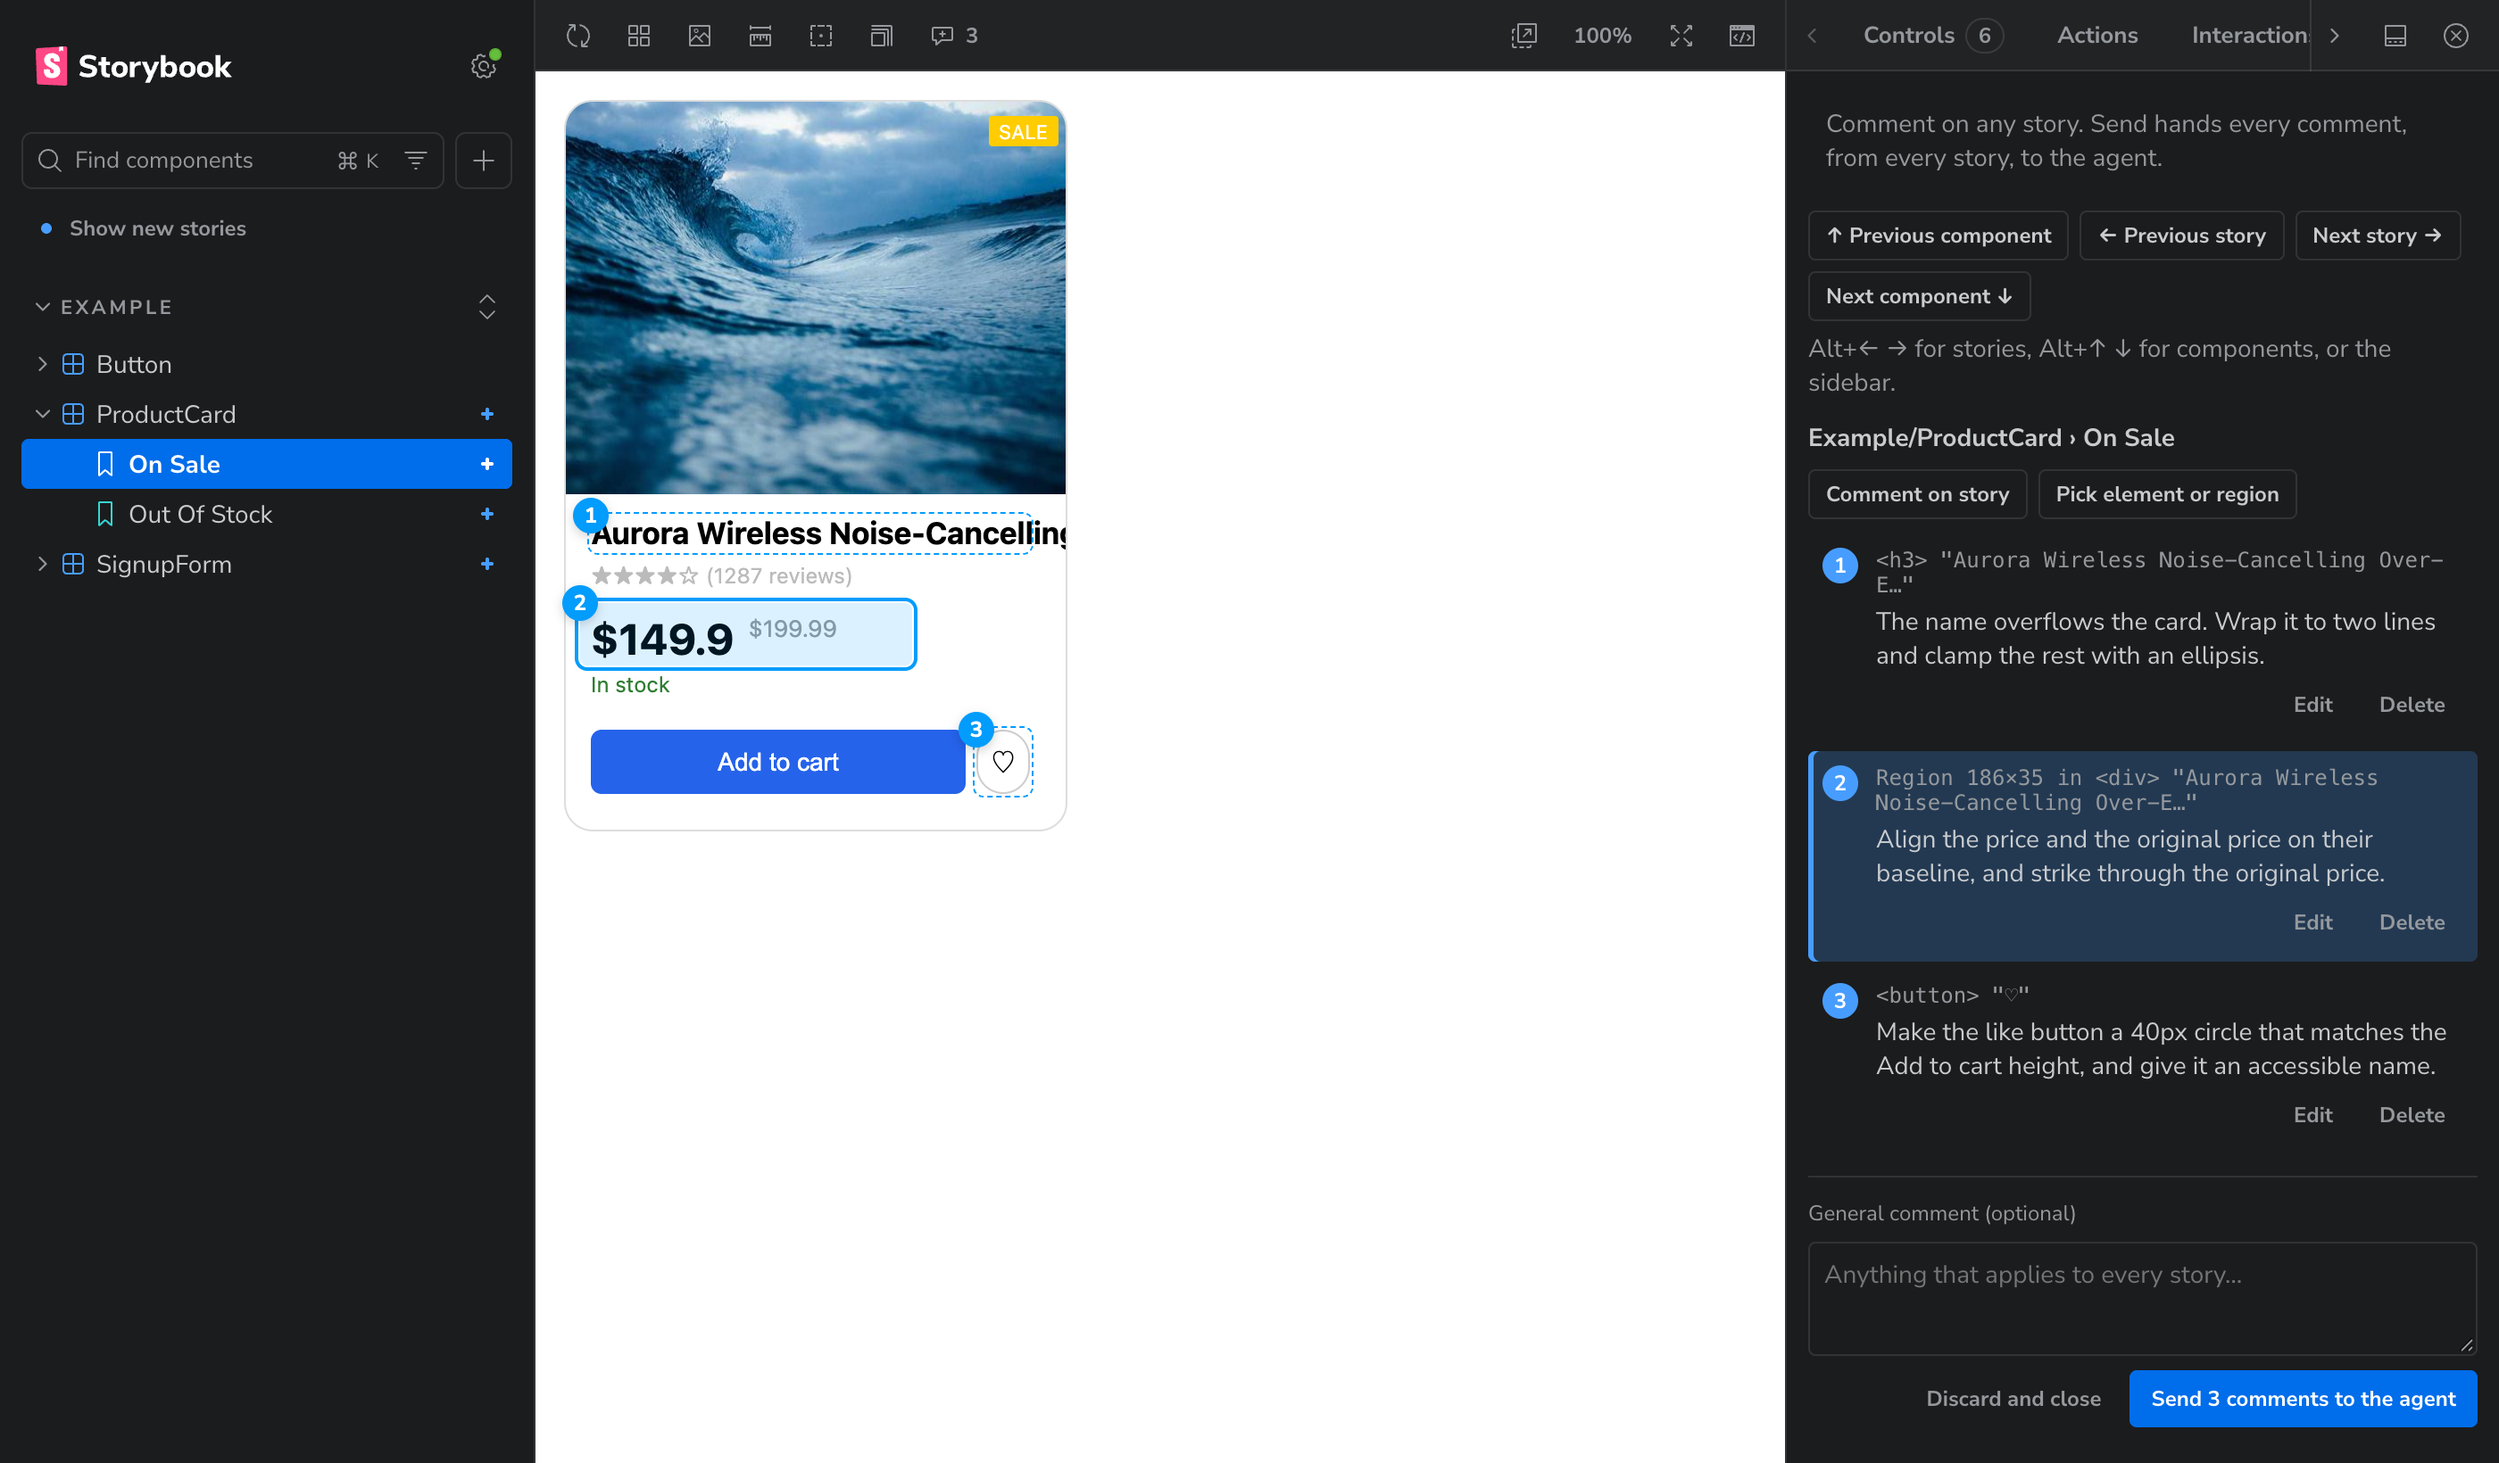
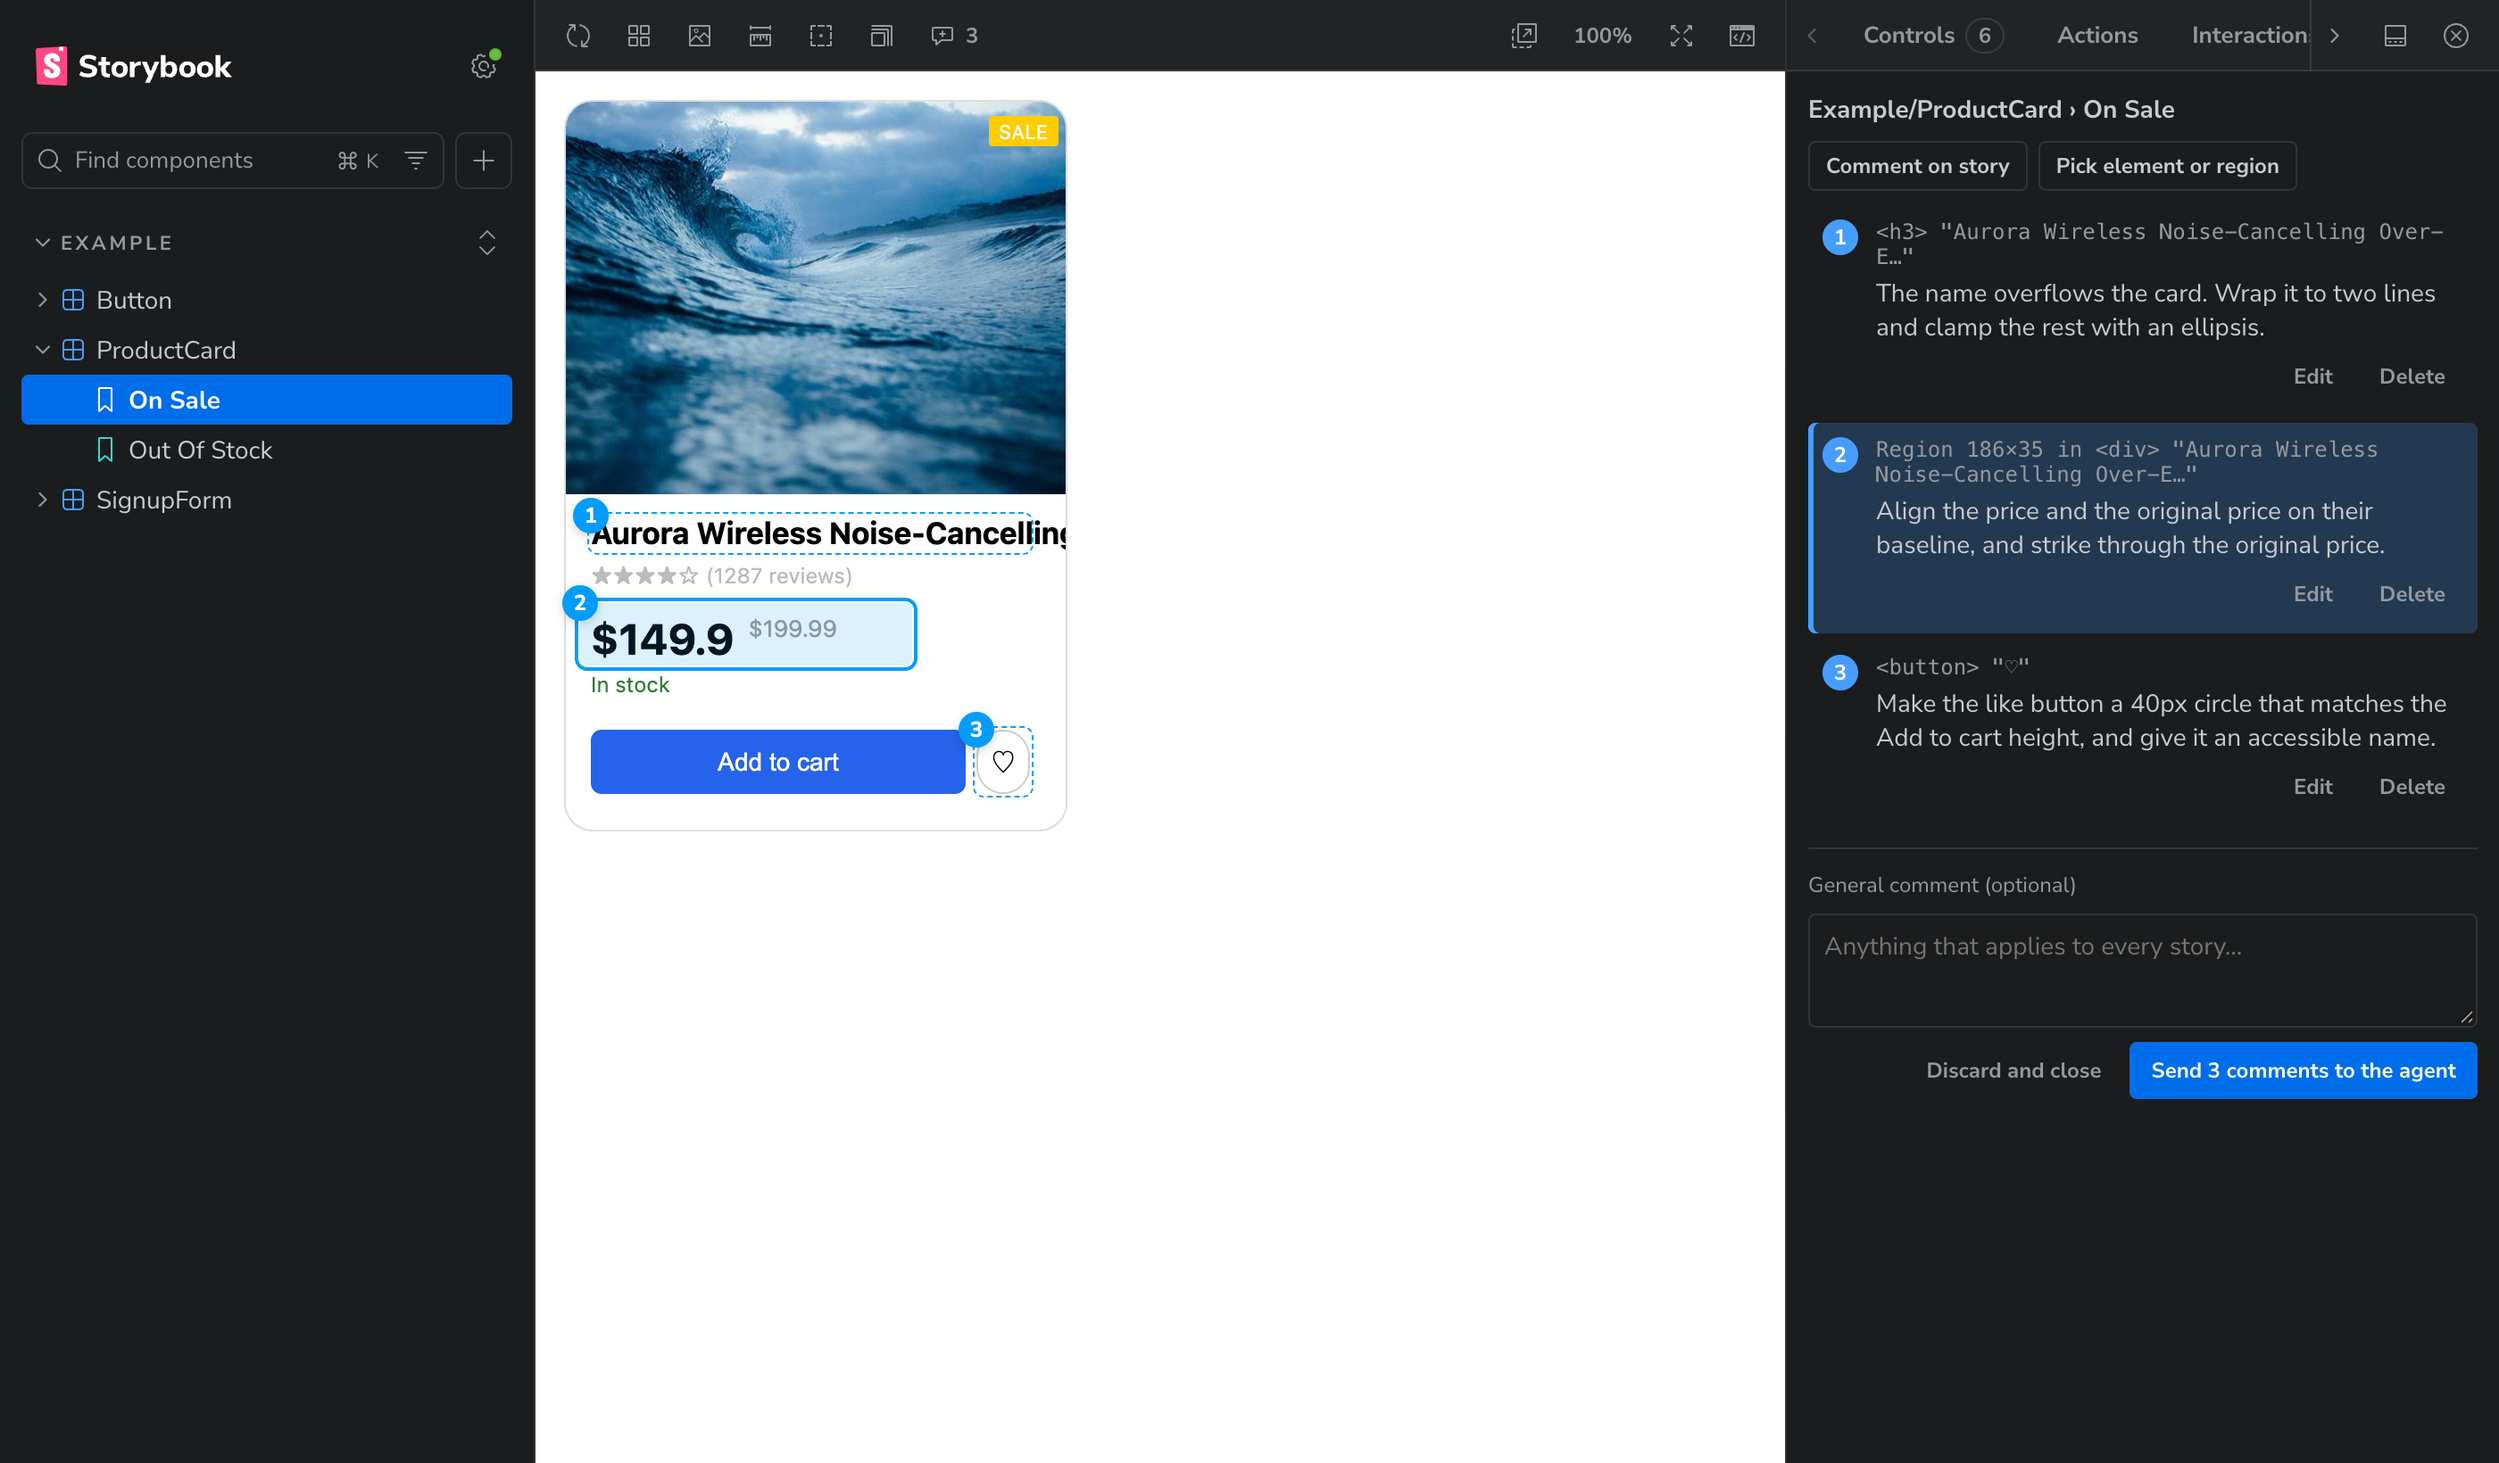
feat(addon): drop the panel's story nav and intro text
Storybook's sidebar and Alt+arrow shortcuts already move between stories.

Claude-Session: https://claude.ai/code/session_01Hyf2UJBzYb4vCAD7wBbrnz

diff --git a/packages/storybook-addon-review/src/review-panel.component.tsx b/packages/storybook-addon-review/src/review-panel.component.tsx
@@ -31,9 +31,8 @@ export type ReviewPanelProps = {
 };
 
 /**
- * The Review panel: previous / next story buttons, the current story's
- * comments, then the other stories', a general comment, and Send / Discard
- * for the whole session.
+ * The Review panel: the current story's comments, then the other stories',
+ * a general comment, and Send / Discard for the whole session.
  */
 export function ReviewPanel({
 	store,
@@ -68,7 +67,6 @@ export function ReviewPanel({
 		<Wrapper>
 			<SessionLine state={state} />
 			{state.extension === "missing" ? <ExtensionNotice /> : null}
-			<StoryNav api={api} />
 			<Section aria-label="This story">
 				<Heading>
 					<span>
@@ -142,44 +140,6 @@ export function ReviewPanel({
 	);
 }
 
-/**
- * Moves through the sidebar's stories without leaving the panel: the same
- * jumps as Storybook's Alt+arrow shortcuts. Comments stay with their story.
- */
-function StoryNav({ api }: { readonly api: API }) {
-	return (
-		<Nav aria-label="Switch story">
-			<Button
-				size="small"
-				variant="outline"
-				onClick={() => api.jumpToComponent(-1)}
-			>
-				↑ Previous component
-			</Button>
-			<Button
-				size="small"
-				variant="outline"
-				onClick={() => api.jumpToStory(-1)}
-			>
-				← Previous story
-			</Button>
-			<Button size="small" variant="outline" onClick={() => api.jumpToStory(1)}>
-				Next story →
-			</Button>
-			<Button
-				size="small"
-				variant="outline"
-				onClick={() => api.jumpToComponent(1)}
-			>
-				Next component ↓
-			</Button>
-			<Muted>
-				Alt+← → for stories, Alt+↑ ↓ for components, or the sidebar.
-			</Muted>
-		</Nav>
-	);
-}
-
 function SessionLine({ state }: { readonly state: ReviewState }) {
 	switch (state.sessionStatus.kind) {
 		case "none":
@@ -192,12 +152,7 @@ function SessionLine({ state }: { readonly state: ReviewState }) {
 		case "checking":
 			return <Notice>Connecting to the agent's session…</Notice>;
 		case "open":
-			return (
-				<Notice>
-					Comment on any story. Send hands every comment, from every story, to
-					the agent.
-				</Notice>
-			);
+			return null;
 		case "closed":
 			return <Notice data-tone="negative">{state.sessionStatus.reason}</Notice>;
 		default: {
@@ -508,13 +463,6 @@ const Notice = styled.p(({ theme }) => ({
 	"&[data-tone=negative]": { color: theme.fgColor.negative },
 	code: { fontFamily: theme.typography.fonts.mono },
 }));
-
-const Nav = styled.nav({
-	display: "flex",
-	alignItems: "center",
-	gap: 6,
-	flexWrap: "wrap",
-});
 
 const Muted = styled.p(({ theme }) => ({
 	margin: 0,
